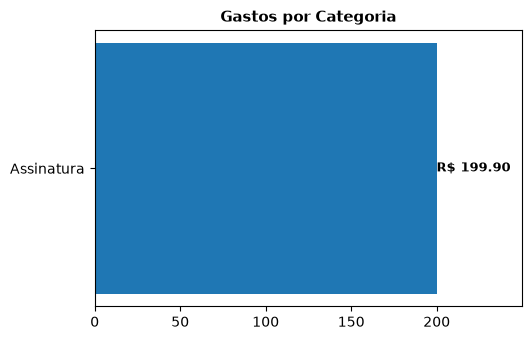
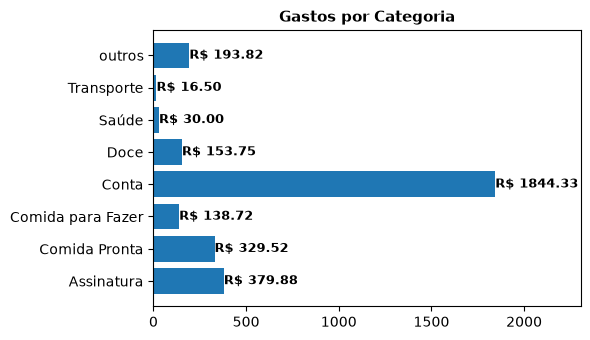
Update constraints

diff --git a/BancoDeDados.py b/BancoDeDados.py
@@ -48,6 +48,13 @@ class DataBase:
                 );
                 """
             )
+            # cursor.execute(
+            #     f"""
+            #     ALTER TABLE gastos ADD CONSTRAINT chk_categoria CHECK (
+            #         categoria IN {tuple(const.CATEGORIAS)}
+            #     );
+            #     """
+            # )
             # Cria tabela de saldos
             cursor.execute(
                 f"""
@@ -115,10 +122,9 @@ class DataBase:
             cursor = gastosDB.cursor()
 
             cursor.execute(
+                f"""
+                DELETE FROM gastos WHERE id = {str(id)}
                 """
-                DELETE FROM gastos WHERE id = ?
-                """,
-                (str(id)),
             )
 
             gastosDB.commit()
@@ -191,5 +197,55 @@ class DataBase:
             return new_value
         return None
 
+    @staticmethod
+    def transposeGastos():
+        with sqlite3.connect(DataBase.nome) as conn:
+            cursor = conn.cursor()
+            cursor.execute("PRAGMA foreign_keys = OFF;")
+            cursor.execute("BEGIN TRANSACTION;")
 
-db = DataBase()
+            try:
+                cursor.execute(
+                    f"""
+                    CREATE TABLE IF NOT EXISTS nova (
+                        id INTEGER PRIMARY KEY AUTOINCREMENT,
+                        nome TEXT NOT NULL,
+                        dia DATE NOT NULL,
+                        valor REAL NOT NULL,
+                        tipo_gasto TEXT NOT NULL CHECK (
+                            tipo_gasto IN {tuple(const.TIPOS_DE_GASTO)}
+                        ),
+                        categoria TEXT NOT NULL CHECK (
+                            categoria IN {tuple(const.CATEGORIAS)}
+                        ),
+                        metodo_pagamento TEXT NOT NULL CHECK (
+                            metodo_pagamento IN {tuple(const.METODOS_PAGAMENTO)}
+                        )
+                    );
+                    """
+                )
+
+                cursor.execute("""
+                    INSERT INTO nova (id, nome, dia, valor, tipo_gasto, categoria, metodo_pagamento)
+                    SELECT id, nome, dia, valor, tipo_gasto, categoria, metodo_pagamento FROM gastos;
+                """)
+
+                cursor.execute("DROP TABLE gastos;")
+
+                cursor.execute("ALTER TABLE nova RENAME TO gastos;")
+
+                conn.commit()
+                print("Column constraint updated successfully!")
+
+            except Exception as e:
+                conn.rollback()
+                print(f"Failed to update constraint, rolled back: {e}")
+
+            finally:
+                # 8. Re-enable foreign keys
+                cursor.execute("PRAGMA foreign_keys = ON;")
+
+#db = DataBase()
+# DataBase.transposeGastos()
+#DataBase.deleteGasto(24)
+#DataBase.consultaManual("SELECT sql FROM sqlite_master  WHERE type = 'table' AND name = 'nome_da_tabela';")

diff --git a/Application.py b/Application.py
@@ -23,7 +23,7 @@ import const
 MAPEAMENTO_CATEGORIAS = {
     "Gasto Fixo": const.CATEGORIAS_FIXOS,
     "Gasto Não Fixo": const.CATEGORIAS_N_FIXOS,
-    "Income": const.CATEGORIAS_INCOME,
+    "Entrada": const.CATEGORIAS_INCOME,
     "Investimento": const.CATEGORIAS_INVEST,
 }
 
@@ -58,7 +58,7 @@ class MainView(Frame):
         self.frame_tabela.grid(row=2, column=0, sticky="nsew", columnspan=2, padx=10, pady=15)
 
         self.colunas = []
-        _, self.colunas = DataBase.consultaManual("select nome, valor, tipo_gasto, categoria from gastos order by id DESC")
+        _, self.colunas = DataBase.consultaManual("select nome, valor, categoria, dia from gastos order by id DESC")
 
         self.tree = App.create_tree_table(self.frame_tabela, self.colunas)
         self.carregar_ultmos_gastos()
@@ -68,8 +68,6 @@ class MainView(Frame):
         o_img_path, _  = self.analisty.gastoOrcamentario()
 
         self.showChart(o_img_path, row=2, col=2, colspan=2)
-
-
 
     def mostraValores(self):
         self.saldoTotal = StringVar()
@@ -128,13 +126,13 @@ class MainView(Frame):
 
 
     def carregar_ultmos_gastos(self, dados_fetchall=None):
-        dados_fetchall, _ = DataBase.consultaManual("select nome, valor, tipo_gasto, categoria from gastos order by id DESC")
+        dados_fetchall, _ = DataBase.consultaManual("select nome, valor, categoria, dia from gastos where tipo_gasto='Gasto Não Fixo' order by dia DESC, id DESC")
         for item in self.tree.get_children():
             self.tree.delete(item)
 
         cont = 0
         for linha in dados_fetchall:
-            if cont == 5:
+            if cont == 10:
                 break
             # Formata o valor monetário
             valores = list(linha)
@@ -186,8 +184,6 @@ class MainView(Frame):
             )
             aviso_label.pack(fill="both", expand=True)
             return aviso_label
-
-
 
 class InserirGastoView(Frame):
 
@@ -747,7 +743,7 @@ class SQLView(Frame):
     def runQuery(self):
 
         cur_query = self.query.get("1.0", "end-1c")
-        if ("delete" in cur_query) or ("drop" in cur_query) or ("select" not in cur_query):
+        if ("delete" in str.lower(cur_query)) or ("drop" in str.lower(cur_query)) or ("select" not in str.lower(cur_query)):
             messagebox.showwarning(title="Ação Proibida", message="só são permitidas ações de select")
         else:
             db = DataBase()
@@ -773,9 +769,9 @@ class SQLView(Frame):
 
         self.tree = App.create_tree_table(frame_tabela, colunas)
 
-        self.carregar_dados(dados_fetchall, colunas)
+        self.carregar_dados_sql(dados_fetchall, colunas)
 
-    def carregar_dados(self, dados_fetchall, colunas):
+    def carregar_dados_sql(self, dados_fetchall, colunas):
         for item in self.tree.get_children():
             self.tree.delete(item)
 

diff --git a/const.py b/const.py
@@ -1,8 +1,8 @@
 TIPOS_DE_GASTO = ["Gasto Fixo", "Gasto Não Fixo", "Entrada", "Investimento"]
 CATEGORIAS_FIXOS = ['Assinatura', 'Conta', 'outros']
-CATEGORIAS_N_FIXOS = ['Doce', 'Fruta', 'Comida Pronta', 'Comida para Fazer', 'Saúde', 'Higiene', 'Planejado',  'Transporte', 'Reserva']
+CATEGORIAS_N_FIXOS = ['Doce', 'Fruta', 'Comida Pronta', 'Comida para Fazer', 'Saúde', 'Higiene', 'Planejado',  'Transporte', 'Reserva', 'outros']
 CATEGORIAS_INVEST = ['caixinha', 'Renda Fixa', 'outros']
-CATEGORIAS_INCOME = ["Bolsas", "Divisão de Compras"]
+CATEGORIAS_INCOME = ["Bolsas", "Divisão de Compras", 'outros']
 CATEGORIAS = ['Doce', 'Fruta', 'Comida Pronta', 'Comida para Fazer', 'Saúde', 'Higiene', 'Planejado', 
-              'Transporte', 'Reserva', 'caixinha', 'Renda Fixa', 'Assinatura', 'Conta', 'outros']
+              'Transporte', 'Reserva', 'caixinha', 'Renda Fixa', 'Assinatura', 'Conta', 'outros', "Bolsas", "Divisão de Compras", 'outros']
 METODOS_PAGAMENTO = ['Crédito', 'Débito', "PIX", "Boleto"]

diff --git a/Gasto.py b/Gasto.py
@@ -31,7 +31,7 @@ class Gasto:
         found = cat_copy.iloc[0]["values"]
         print(f"{name} mapped to {found} with similarity of {cat_copy.iloc[0]["similarity"]}")
 
-        if cat_copy.iloc[0]["similarity"] > 60:
+        if cat_copy.iloc[0]["similarity"] > 70:
             return found, 1
         else:
             return found, 0
